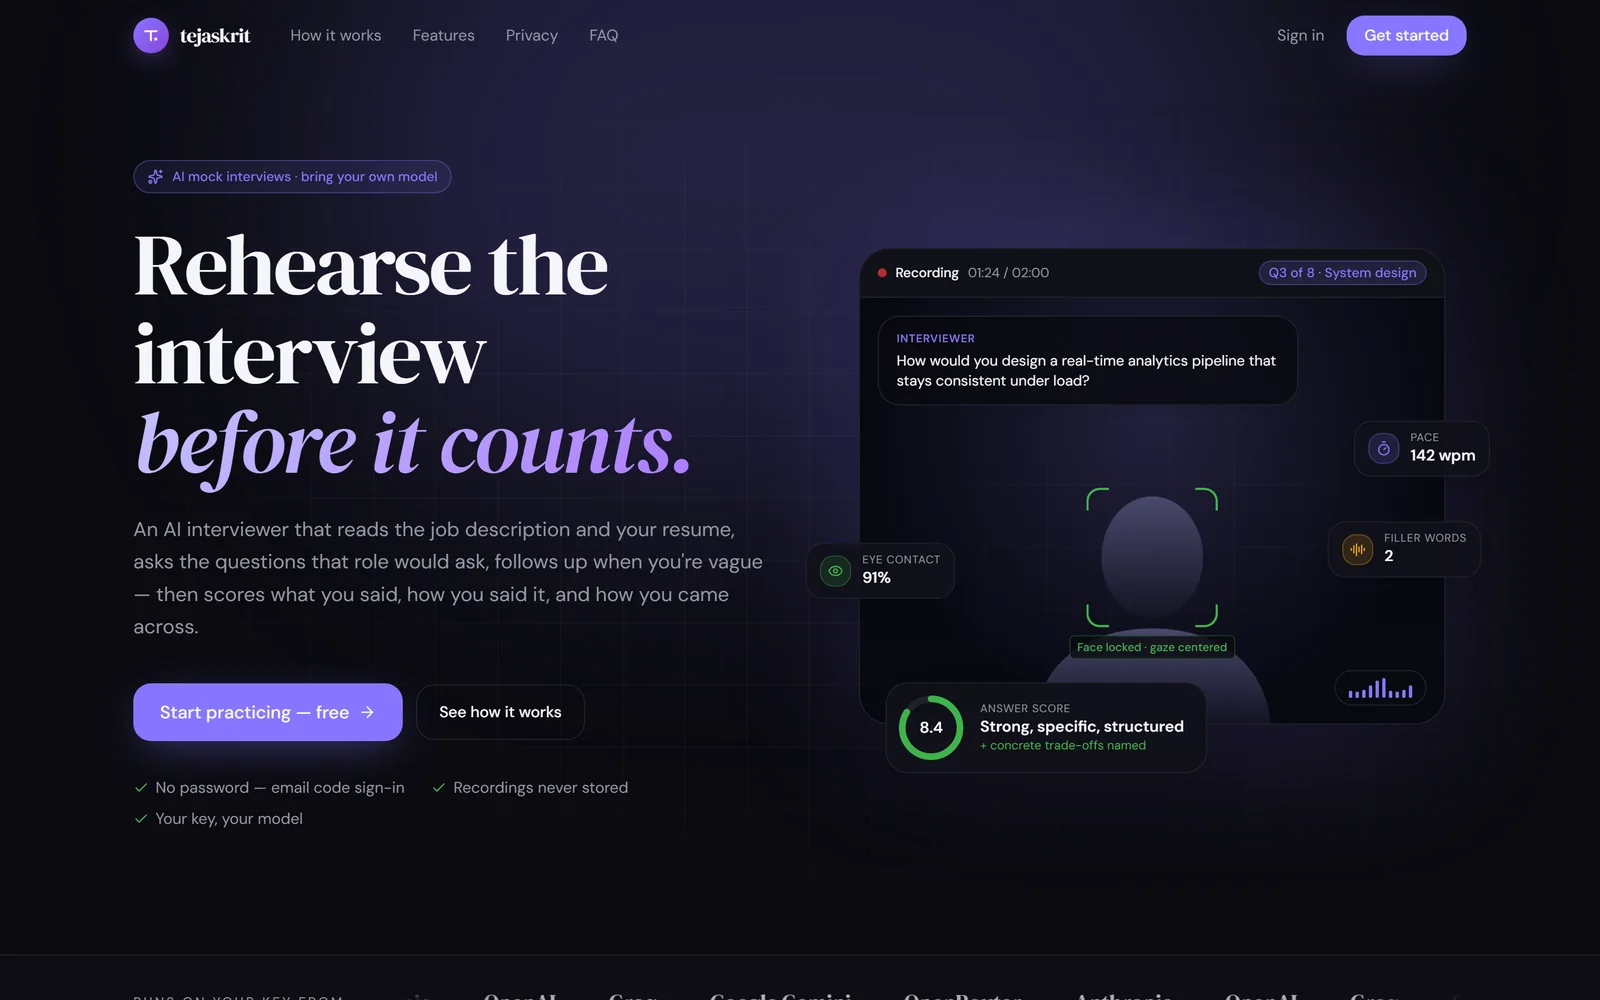
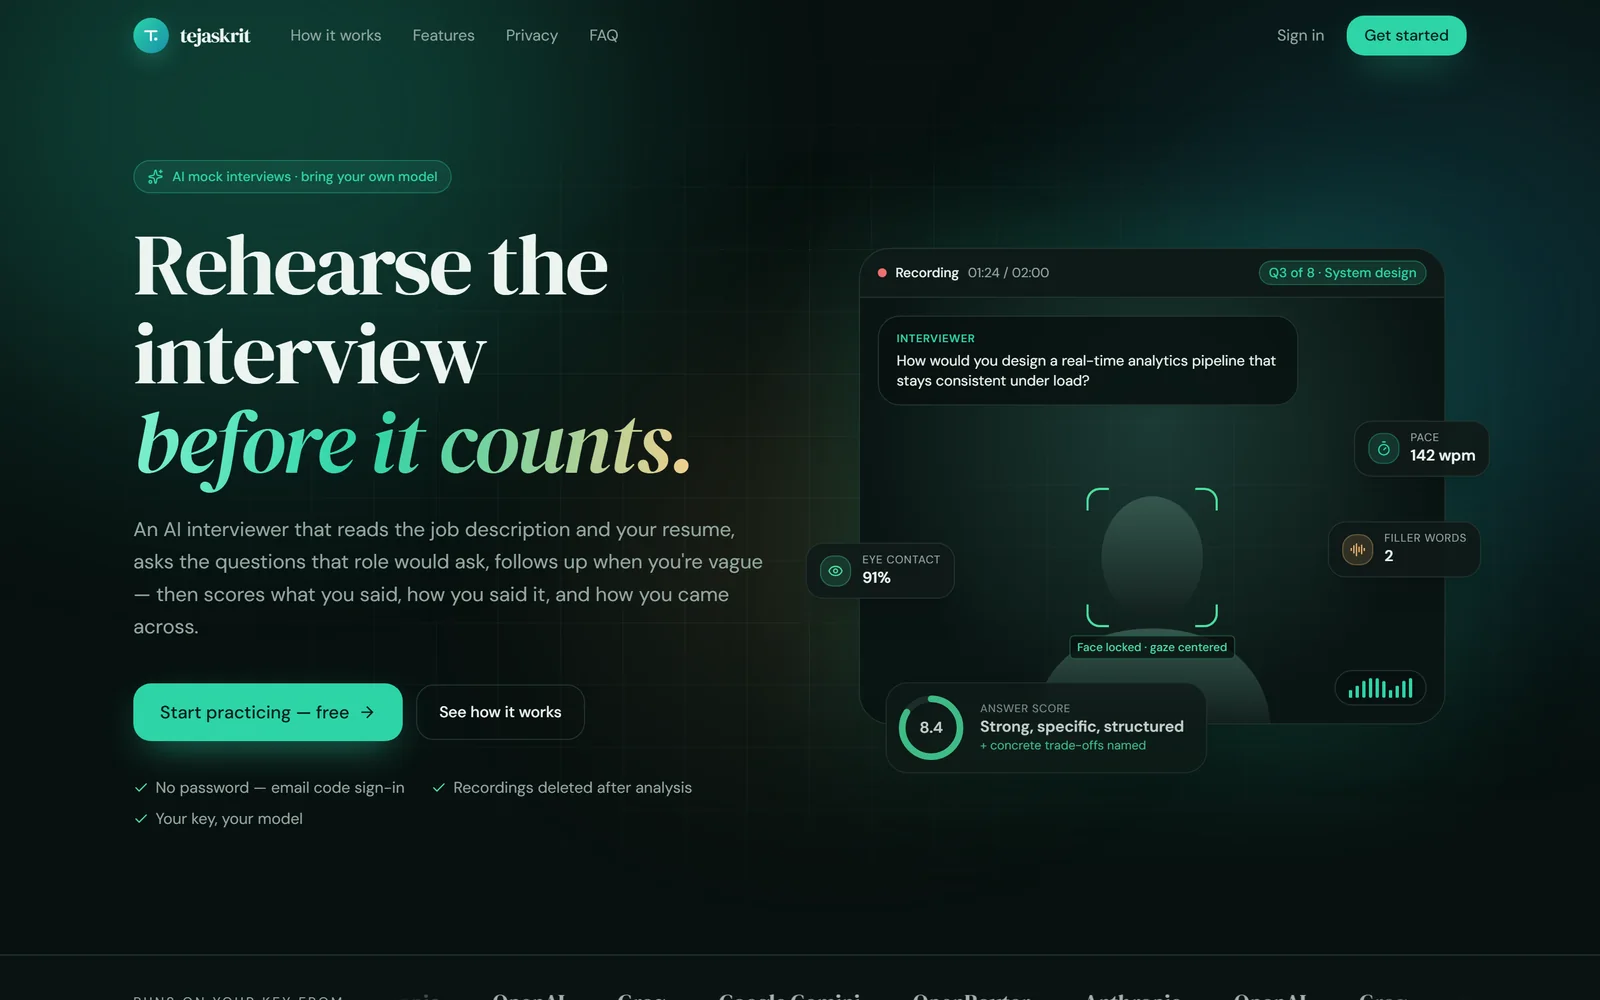
Refresh Code Archaeologist and Tejaskrit for their latest versions
Retake both project screenshots from the live apps, which have new
designs. Update Code Archaeologist's copy for its plainer landing page,
private repo support and single-container deploy. Describe Tejaskrit's
two-stage answer pipeline and background report generation.

diff --git a/src/lib/content.ts b/src/lib/content.ts
@@ -100,12 +100,12 @@ export const featured: Project[] = [
     year: "2026",
     badges: ["Live in production"],
     summary:
-      "Ask why any code was written and get an answer grounded in the repo's own commits, pull requests and code reviews — plus file timelines, hot spots and who owns what.",
+      "Connect a GitHub repository and ask why any code was written, in plain English. Answers come from its commits, pull requests and code reviews, with links to the sources — plus file timelines, hot spots and who owns what.",
     points: [
-      "Multi-user web app that ingests a repo's commits, diffs, PRs and reviews, then answers “why was this written?” citing the source commit SHAs. Deployed as a Docker image on Render with Neon PostgreSQL and Pinecone.",
+      "Multi-user web app that ingests a repo's commits, diffs, PRs and reviews — public, or private through a read-only GitHub App — then answers “why was this written?” citing the source commit SHAs. Runs as one Docker container on Render with Neon PostgreSQL and Pinecone.",
       "Hybrid retrieval: Pinecone dense search plus BM25 reranking at 60/40, with per-user, per-repo namespaces. Ingestion runs as background jobs with live progress and commit-intent classification.",
       "Bring your own model: adapters for 5 LLM providers (Anthropic, OpenAI, Gemini, Groq, OpenRouter) with live model discovery, and API keys encrypted at rest with Fernet.",
-      "Secured with httpOnly JWT sessions, bcrypt, GitHub App and Google OAuth (PKCE), email verification and per-IP rate limiting. Covered by 70 pytest tests, with Alembic migrations.",
+      "Secured with httpOnly JWT sessions, bcrypt, GitHub App and Google OAuth (PKCE), email verification and per-IP rate limiting. Covered by 70+ pytest tests, with Alembic migrations.",
     ],
     stack: ["Python", "FastAPI", "PostgreSQL", "Pinecone", "React", "TypeScript", "Docker"],
     thumb: "/thumbnails/code-arch.webp",
@@ -122,7 +122,8 @@ export const featured: Project[] = [
       "Practice interviews written from a real job description and your resume, with follow-ups when you're vague — then a scored report on what you said, how you said it and how you came across.",
     points: [
       "Took our SSH '26 1st Runner-Up team project to production on Azure (Docker, Caddy HTTPS, PostgreSQL). It reads a JD and resume, generates role-tailored questions, and runs a video interview with adaptive follow-ups.",
-      "Built the per-answer pipeline: ffmpeg → speech-to-text and librosa audio signals (pace, fillers, pauses) → MediaPipe eye-contact and posture analysis → weighted rubric scoring and a hire / no-hire report.",
+      "Built a two-stage answer pipeline. A quick pass (ffmpeg, speech-to-text, librosa audio signals and a fast-model first estimate) picks the next question in seconds, then a low-priority background queue runs MediaPipe eye-contact and posture analysis and full rubric scoring.",
+      "The hire / no-hire report builds in the background with live progress, is emailed if you've left the page, and exports to PDF.",
       "Added passwordless email-code sign-in with rate limits, bring-your-own keys for 5 LLM providers, and database-persisted sessions. Tuned peak memory to about 550 MB so it runs on a 1 GB VM.",
     ],
     stack: [
